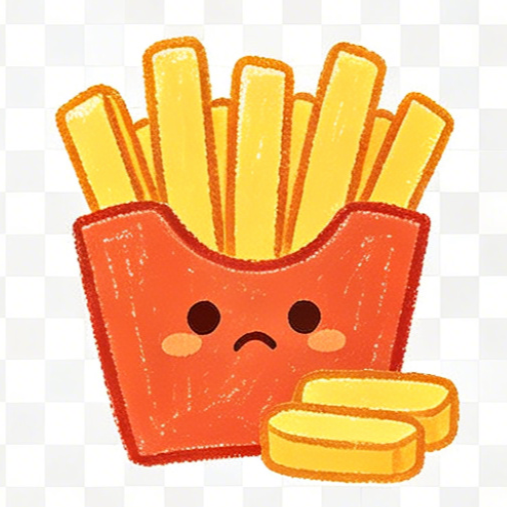
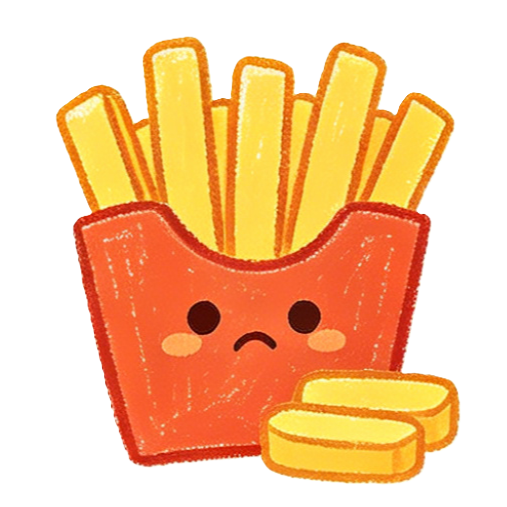
替换心情打卡界面的emoji图标为抠像图片

diff --git a/src/utils/moodHelpers.ts b/src/utils/moodHelpers.ts
@@ -1,14 +1,25 @@
+import kaixin from '@/assets/iocn/emoji/1kaixin.png'
+import qidai from '@/assets/iocn/emoji/2qidai.png'
+import shiran from '@/assets/iocn/emoji/3shiran.png'
+import pingjing from '@/assets/iocn/emoji/4pingjing.png'
+import xiangjia from '@/assets/iocn/emoji/5xiangjia.png'
+import pibei from '@/assets/iocn/emoji/6pibei.png'
+import gudu from '@/assets/iocn/emoji/7gudu.png'
+import weiqv from '@/assets/iocn/emoji/8weiqv.png'
+import jiaolv from '@/assets/iocn/emoji/9jiaolv.png'
+import fanzao from '@/assets/iocn/emoji/10fanzao.png'
+
 export const MOODS = [
-  { id: 1, name: '开心', color: '#FFD93D', icon: '😄' },
-  { id: 2, name: '期待', color: '#FFA94D', icon: '🤩' },
-  { id: 3, name: '释然', color: '#A66CFF', icon: '😌' },
-  { id: 4, name: '平静', color: '#6BCB77', icon: '😐' },
-  { id: 5, name: '想家', color: '#8D6E63', icon: '🥺' },
-  { id: 6, name: '疲惫', color: '#4D96FF', icon: '😮💨' },
-  { id: 7, name: '孤独', color: '#6D8299', icon: '👤' },
-  { id: 8, name: '委屈', color: '#FF8E9E', icon: '😢' },
-  { id: 9, name: '焦虑', color: '#FF6B6B', icon: '😖' },
-  { id: 10, name: '烦躁', color: '#FF7F50', icon: '😫' },
+  { id: 1, name: '开心', color: '#FFD93D', icon: kaixin },
+  { id: 2, name: '期待', color: '#FFA94D', icon: qidai },
+  { id: 3, name: '释然', color: '#A66CFF', icon: shiran },
+  { id: 4, name: '平静', color: '#6BCB77', icon: pingjing },
+  { id: 5, name: '想家', color: '#8D6E63', icon: xiangjia },
+  { id: 6, name: '疲惫', color: '#4D96FF', icon: pibei },
+  { id: 7, name: '孤独', color: '#6D8299', icon: gudu },
+  { id: 8, name: '委屈', color: '#FF8E9E', icon: weiqv },
+  { id: 9, name: '焦虑', color: '#FF6B6B', icon: jiaolv },
+  { id: 10, name: '烦躁', color: '#FF7F50', icon: fanzao },
 ]
 
 export type MoodItem = (typeof MOODS)[number]

diff --git a/src/views/mood/MoodEditView.vue b/src/views/mood/MoodEditView.vue
@@ -130,7 +130,7 @@ onMounted(() => {
                 @click="selectMood(mood.id)"
               >
                 <div class="mood-box" :style="{ backgroundColor: mood.color }">
-                  <span class="mood-emoji">{{ mood.icon }}</span>
+                  <img :src="mood.icon" class="mood-emoji" :alt="mood.name" />
                 </div>
                 <span class="mood-name">{{ mood.name }}</span>
               </div>
@@ -161,7 +161,7 @@ onMounted(() => {
                 </div>
                 <div class="selected-mood" @click="reshowDial">
                   <div class="mood-box" :style="{ backgroundColor: getMoodById(selectedMoodId!).color }">
-                    <span class="mood-emoji">{{ getMoodById(selectedMoodId!).icon }}</span>
+                    <img :src="getMoodById(selectedMoodId!).icon" class="mood-emoji" />
                   </div>
                   <span class="mood-name-pill" :style="{ backgroundColor: getMoodById(selectedMoodId!).color }">
                     {{ getMoodById(selectedMoodId!).name }}
@@ -297,9 +297,14 @@ onMounted(() => {
   display: flex;
   justify-content: center;
   align-items: center;
-  font-size: 32px;
   box-shadow: inset -2px -2px 6px rgba(0,0,0,0.05), inset 2px 2px 6px rgba(255,255,255,0.4);
   transition: all 0.2s;
+  overflow: hidden;
+}
+.mood-emoji {
+  width: 70%;
+  height: 70%;
+  object-fit: contain;
 }
 .mood-name {
   margin-top: 8px;
@@ -376,7 +381,6 @@ onMounted(() => {
   width: 70px;
   height: 70px;
   border-radius: 20px;
-  font-size: 38px;
 }
 .mood-name-pill {
   margin-top: -12px;

diff --git a/src/views/mood/MoodCalendarView.vue b/src/views/mood/MoodCalendarView.vue
@@ -118,7 +118,7 @@ onMounted(() => {
             
             <div class="record-indicator">
               <div v-if="item.hasRecord" class="mood-box" :style="{ backgroundColor: item.emotionTagColor || getMoodById(item.emotionTagId || 6).color }">
-                <span class="mood-icon">{{ getMoodById(item.emotionTagId || 6).icon }}</span>
+                <img :src="getMoodById(item.emotionTagId || 6).icon" class="mood-icon" />
               </div>
               <div v-else-if="!item.isFuture" class="empty-circle"></div>
               <!-- if future, no circle -->
@@ -267,7 +267,13 @@ onMounted(() => {
   display: flex;
   align-items: center;
   justify-content: center;
-  font-size: 20px;
+  overflow: hidden;
+}
+
+.mood-icon {
+  width: 70%;
+  height: 70%;
+  object-fit: contain;
 }
 
 .fab-container {
